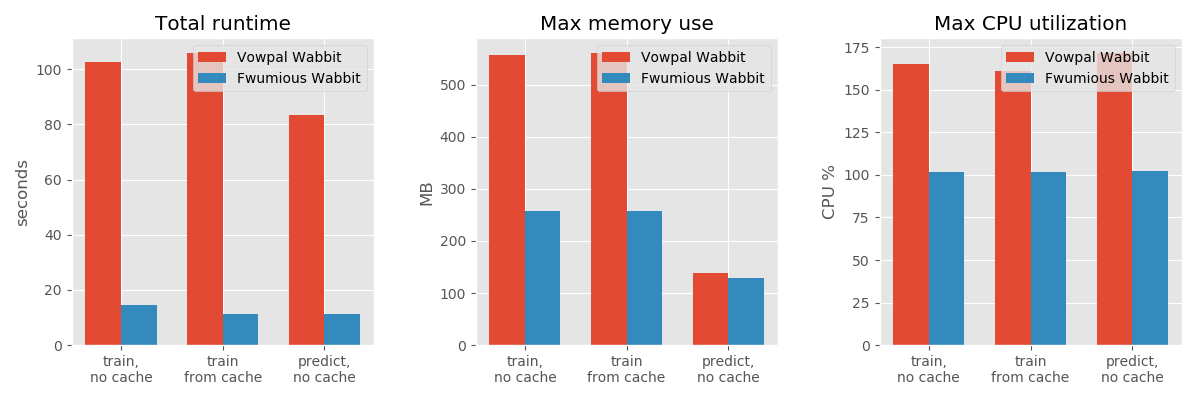
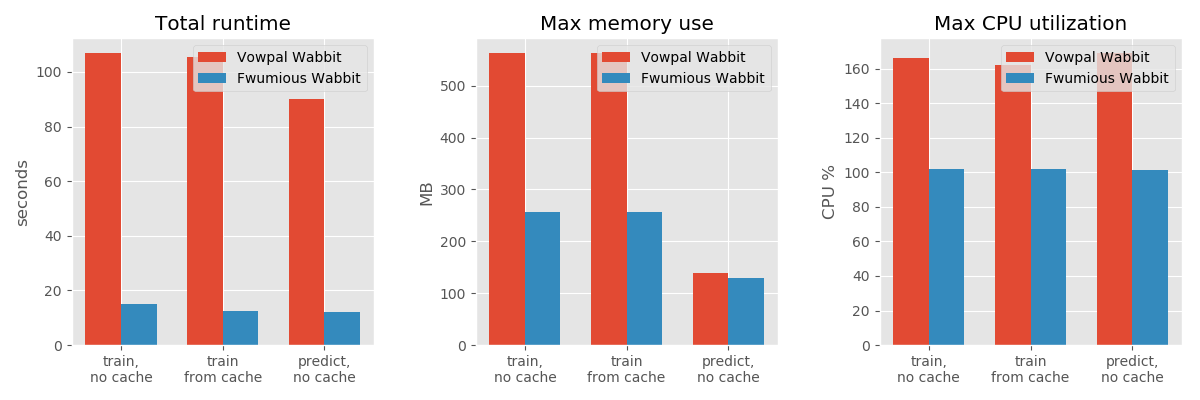
bumping version & benchmark info

diff --git a/src/version.rs b/src/version.rs
@@ -1,1 +1,1 @@
-pub static LATEST: &str = "0.1";
+pub static LATEST: &str = "0.2";

diff --git a/BENCHMARK.md b/BENCHMARK.md
@@ -14,12 +14,12 @@ here are the results for 3 runs for each scenario, taking mean values:
 ![benchmark results](benchmark_results.png)
 Scenario|Runtime (seconds)|Memory (MB)|CPU %
 ----|----:|----:|----:
-vw train, no cache|102.51 | 557 | 165.10
-fw train, no cache|14.40 | 257 | 101.87
-vw train, using cache|105.88 | 561 | 161.03
-fw train, using cache|11.24 | 257 | 101.60
-vw predict, no cache|83.54 | 139 | 171.73
-fw predict, no cache|11.43 | 129 | 102.10
+vw train, no cache|106.96 | 563 | 166.17
+fw train, no cache|15.21 | 257 | 102.00
+vw train, using cache|105.56 | 562 | 161.87
+fw train, using cache|12.63 | 257 | 102.10
+vw predict, no cache|90.00 | 139 | 169.03
+fw predict, no cache|12.25 | 129 | 101.40
 
 ### Model equivalence
 loss values for the test set:
@@ -81,8 +81,8 @@ or, if you just want the numbers with less dependencies run:
 
 ### versions:
 ```
-vowpal wabbit 8.9.0 (git commit: cd97ac814)
-fwumious wabbit 0.1 (git commit: b3834d3)
+vowpal wabbit 8.9.0 (git commit: cfa6749a9)
+fwumious wabbit 0.2 (git commit: 6910559)
 ```
 
 ### CPU Info
